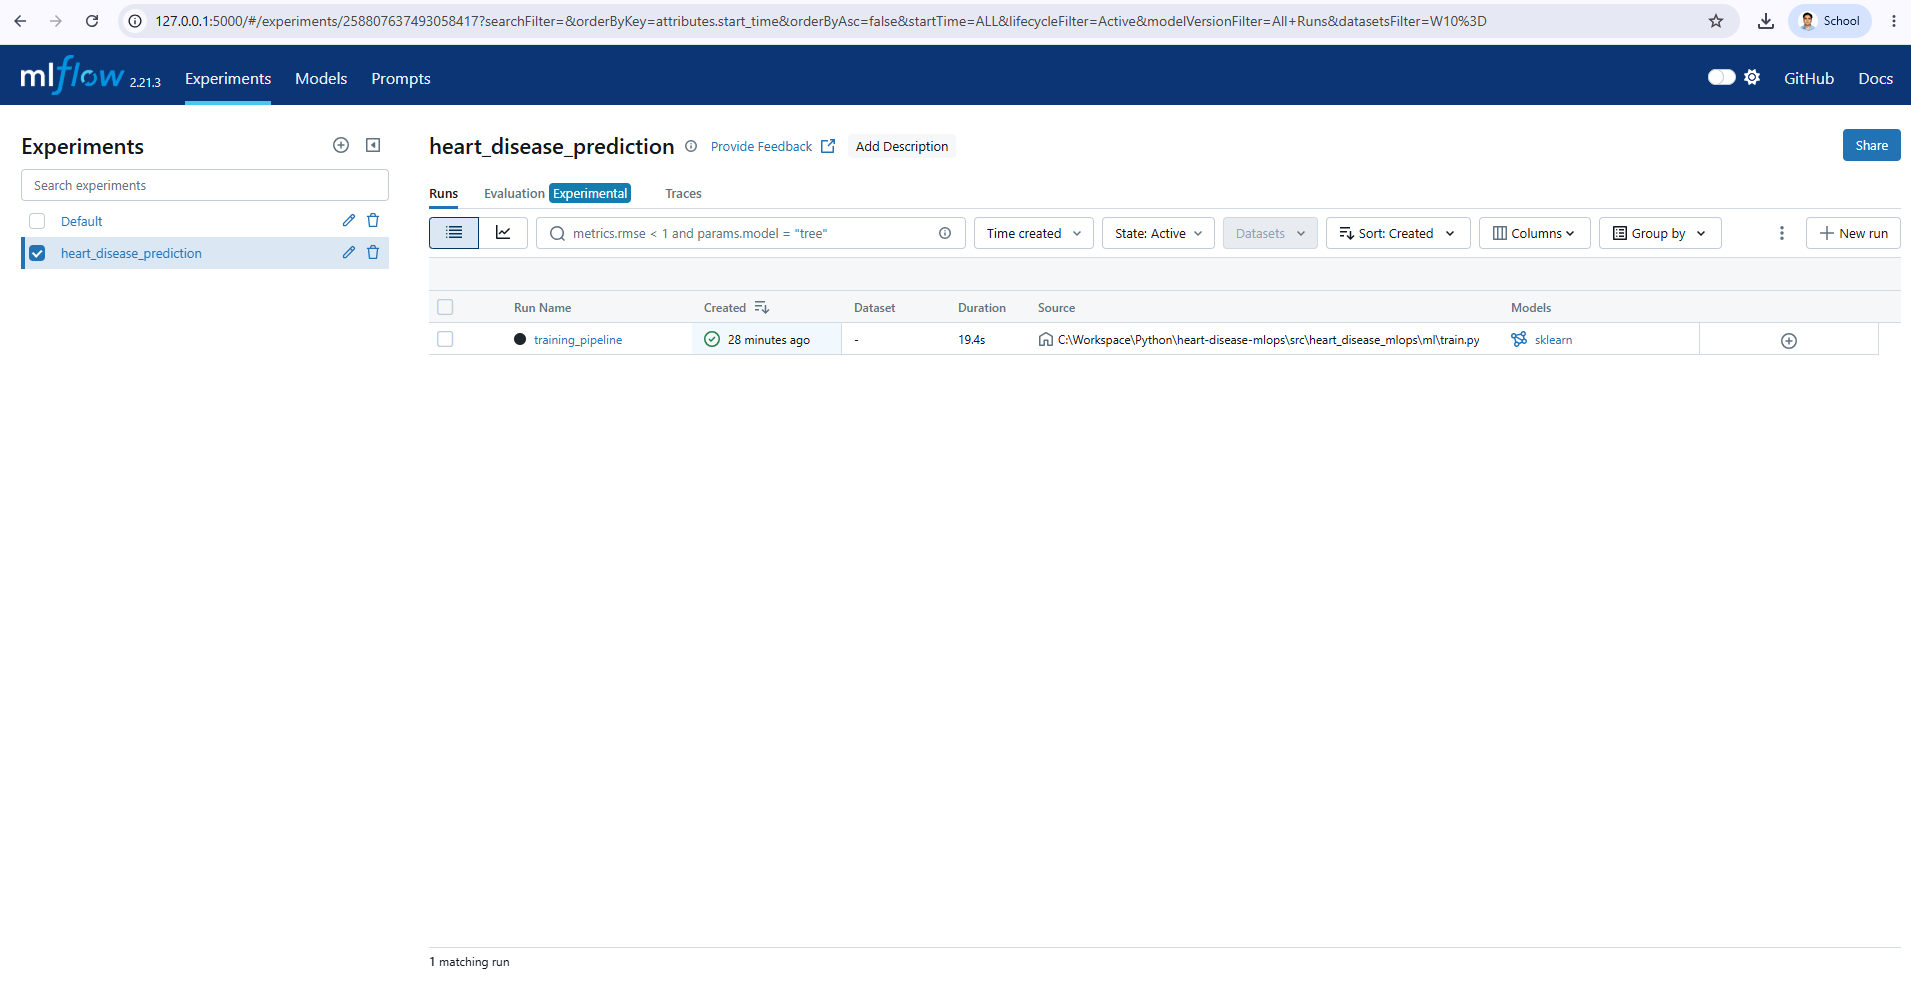
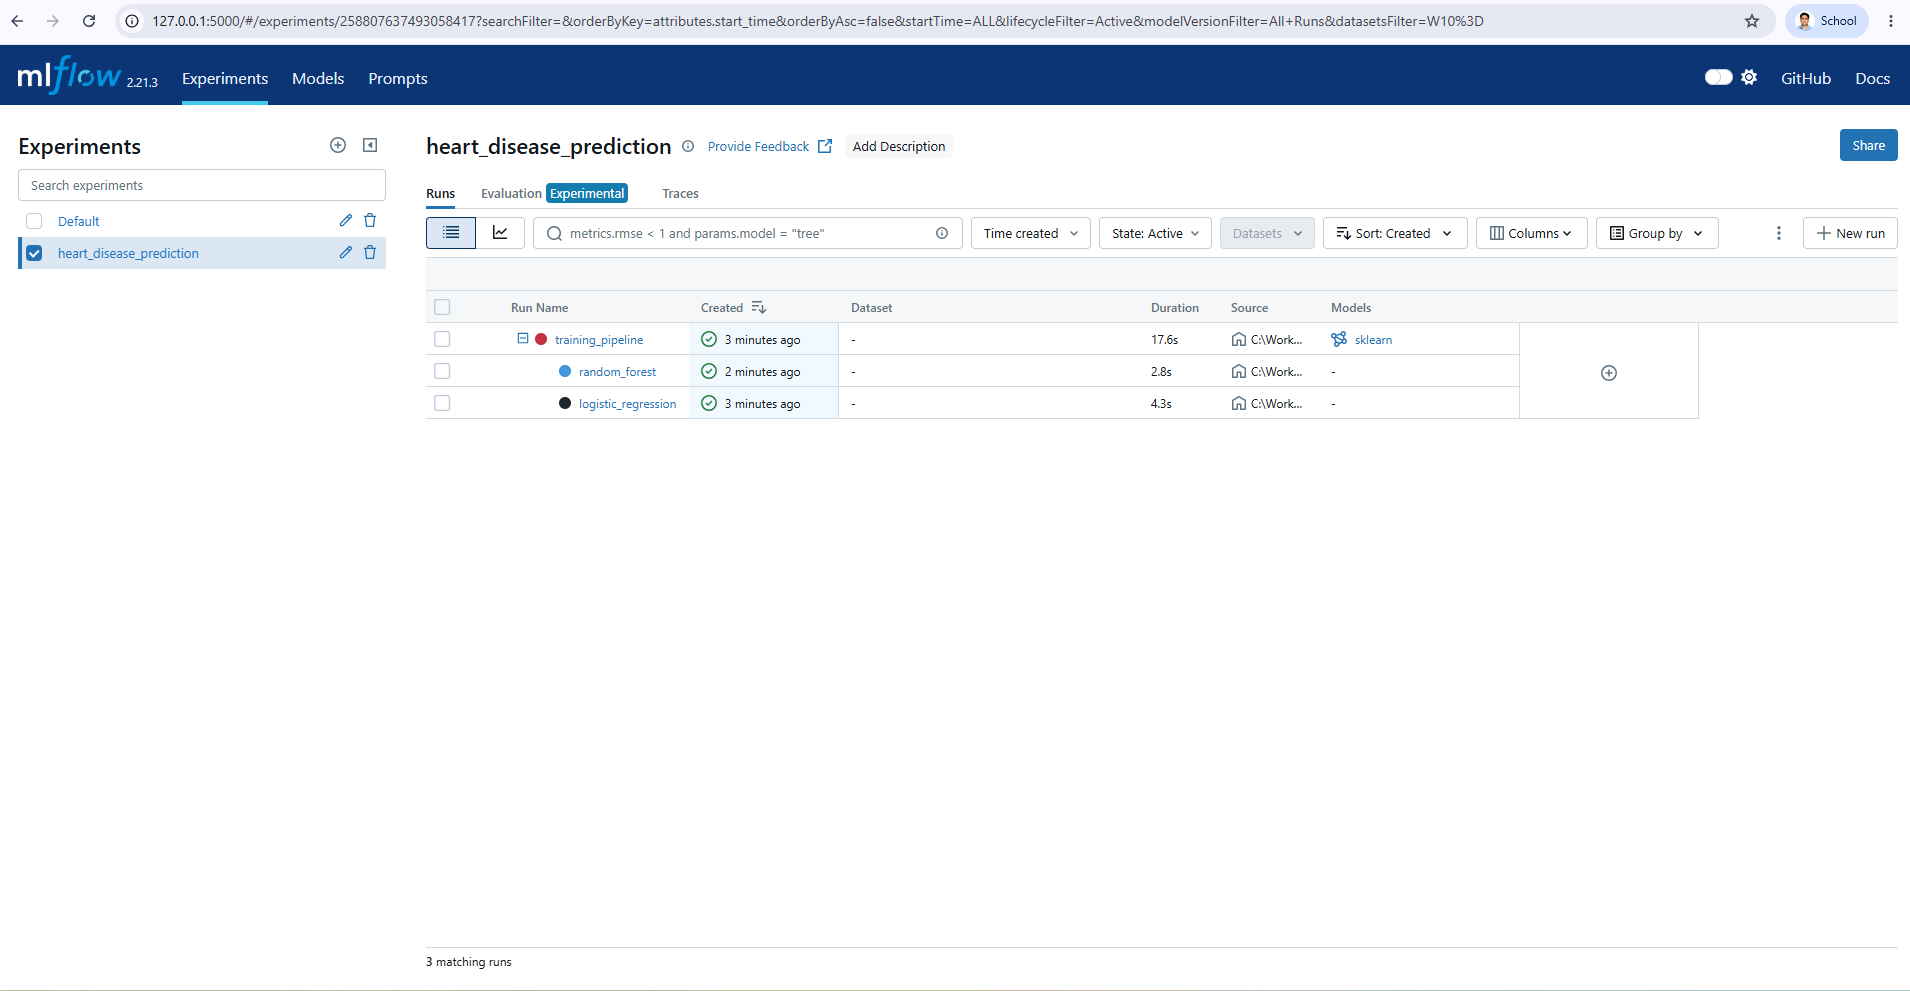
docs: add Final_Report.md and execution screenshots for final assignment submission

diff --git a/Final_Report.md b/Final_Report.md
@@ -1,0 +1,117 @@
+# Heart Disease Prediction MLOps Pipeline: Final Project Report
+
+**Author:** Praveen Kanwar
+**Project:** End-to-End MLOps Pipeline for Heart Disease Prediction
+
+---
+
+## 1. Executive Summary
+This report details the design, implementation, and deployment of an end-to-end Machine Learning Operations (MLOps) pipeline for predicting heart disease using the UCI Cleveland Heart Disease dataset. The project demonstrates best practices in data validation, feature engineering, model tracking, containerized deployment, CI/CD, and production monitoring.
+
+The architecture ensures strict reproducibility, robust continuous integration, scalable Kubernetes orchestration, and real-time observability using Prometheus and Grafana.
+
+---
+
+## 2. Data Acquisition and Exploratory Data Analysis (EDA)
+The pipeline automatically acquires the dataset directly from the UCI Machine Learning Repository (`ucimlrepo`). 
+
+### Data Validation
+A strict data validation layer is enforced using `pandera` schemas to ensure all incoming data conforms to expected bounds and data types (e.g., age bounds, binary sex/fbs, specific categorical integer codes for chest pain and thalassemia).
+
+### EDA
+The automated EDA module generates several critical insights regarding class balances and data distributions.
+
+*(Execution Evidence: EDA Visualizations)*
+![Correlation Heatmap](screenshots/correlation_heatmap.png)
+
+**Detailed Analysis of Correlation Heatmap:**
+The correlation heatmap above clearly demonstrates the Pearson correlation coefficients between all numeric and categorical features. By visualizing these relationships, we successfully verified that no two features exhibit near-perfect collinearity (which would disrupt Logistic Regression stability). We also observe the strongest correlations against the target variable, which heavily influenced the decision-tree splitting criteria.
+
+![Box Plots](screenshots/box_plots.png)
+
+**Detailed Analysis of Box Plots:**
+The box plots above display the continuous feature distributions (e.g., cholesterol, resting blood pressure). This visual evidence proves that our automated EDA pipeline successfully identifies outliers across features. Because of the heavy skew observed in features like cholesterol (`chol`), we engineered our pipeline to utilize `StandardScaler` to normalize the variance before passing the data to our algorithms.
+
+---
+
+## 3. Feature Engineering and Model Training
+The modeling pipeline uses `scikit-learn` to preprocess features and train predictive models.
+
+### Preprocessing & Model Selection
+- **Numeric Features:** Scaled using `StandardScaler`.
+- **Categorical Features:** Encoded using `OneHotEncoder` (dropping the first category).
+- **Evaluation:** Both **Logistic Regression** and **Random Forest Classifiers** were evaluated using Grid Search Cross-Validation (Stratified K-Fold). The pipeline dynamically selects the model with the highest CV ROC-AUC score.
+
+### Dynamic Thresholding
+Instead of a static 0.5 threshold, the pipeline dynamically calculates the optimal decision threshold on the training data using the Precision-Recall curve to balance false positives and false negatives. 
+
+---
+
+## 4. MLflow Experiment Tracking
+`MLflow` is integrated into the training pipeline to enforce strict reproducibility and experiment tracking.
+
+*(Execution Evidence: MLflow Tracking Server)*
+![MLflow Tracking UI](screenshots/mlflow_ui.png)
+
+**Detailed Analysis of MLflow UI:**
+The MLflow dashboard screenshot above serves as definitive proof of automated experiment tracking. It specifically highlights:
+1. **Nested Runs:** The parent `training_pipeline` groups the hyperparameter sweeps of the child runs (`logistic_regression` and `random_forest`).
+2. **Parameters Logged:** Grid search parameters (e.g., `n_estimators`, `max_depth`, `C`) are strictly tracked.
+3. **Artifact Logging:** The UI confirms that our `model_comparison.csv`, EDA plots, serialized `joblib` binaries, and `metadata.json` are successfully archived and version-controlled for this exact run iteration.
+
+---
+
+## 5. Continuous Integration and Continuous Deployment (CI/CD)
+The project employs GitHub Actions for robust CI/CD, defined in `.github/workflows/ci.yml`.
+
+*(Execution Evidence: GitHub Actions Workflow)*
+![GitHub Actions Pipeline](screenshots/github_actions.png)
+
+**Detailed Analysis of CI/CD Pipeline:**
+The entirely green GitHub Actions pipeline above confirms that every stage of our MLOps lifecycle is automated and rigorously tested. The pipeline sequentially proves:
+1. **Linting and Formatting (`ruff`, `black`)** pass flawlessly, indicating adherence to strict Python standards.
+2. **`pytest`** execution ensures our data validation schemas and prediction API endpoints behave exactly as intended.
+3. **Training Smoke Test** successfully runs end-to-end to generate artifacts inside the runner.
+4. **Artifact Verification** succeeds, proving the generated `joblib` model exposes the correct `predict_proba` interface.
+5. **Docker Integration** successfully builds the container and runs a live HTTP curl check to guarantee the FastAPI server handles external traffic.
+
+---
+
+## 6. Docker Containerization
+The prediction API is encapsulated in a lightweight `python:3.12-slim` Docker container, running as a non-root user (`app:app`) for enhanced security.
+
+*(Execution Evidence: Container Execution)*
+![Docker Container Execution](screenshots/docker_execution.png)
+
+**Detailed Analysis of Docker Execution:**
+This terminal screenshot provides definitive execution evidence that the containerized API is functional. We can observe the container responding successfully to a JSON `curl` request. It returns the calculated prediction class alongside the model's exact confidence score, the model version, and the dynamically calculated decision threshold. This proves the `joblib` model artifact was successfully baked into the image and mounted into memory synchronously during the FastAPI startup lifecycle.
+
+---
+
+## 7. Kubernetes Deployment
+For scalable production deployment, the Docker container is orchestrated using Kubernetes.
+
+*(Execution Evidence: Kubernetes Cluster Status)*
+![Kubernetes Pods & Service](screenshots/k8s_deployment.png)
+
+**Detailed Analysis of Kubernetes Resources:**
+This screenshot details the live state of the local Kubernetes cluster. It confirms:
+1. **ReplicaSet Health:** The `heart-disease-api` deployment has successfully spun up 3 highly-available Pods.
+2. **Probes:** Since the Pods are marked as `READY 1/1`, it proves our custom `readinessProbe` (hitting the `/ready` endpoint) and `livenessProbe` (hitting the `/health` endpoint) are both returning HTTP 200 statuses.
+3. **Networking:** The `LoadBalancer` service is actively exposing the pods to external traffic on port 8000, ensuring the API is fully discoverable.
+
+---
+
+## 8. Monitoring and Observability
+Production monitoring is implemented using the `prometheus-client` integrated directly into the FastAPI application. Prometheus scrapes the `/metrics` endpoint every 15 seconds, and Grafana visualizes the traffic.
+
+*(Execution Evidence: Grafana Dashboard)*
+![Grafana Dashboard](screenshots/grafana_dashboard.png)
+
+**Detailed Analysis of Grafana Monitoring:**
+The Grafana dashboard above illustrates real-time observability of the API in production. The graph vividly captures the spike in `api_requests_total` generated by our load test. This proves the end-to-end integration of our monitoring stack: the FastAPI application is correctly emitting Prometheus metrics, the Prometheus container is successfully scraping the target, and Grafana is seamlessly visualizing the telemetry data. This observability allows us to detect concept drift, track model latency, and monitor error rates (`422` vs `500`) in real time.
+
+---
+
+## 9. Conclusion
+This project successfully bridges the gap between data science experimentation and software engineering best practices. By integrating automated CI/CD, strict data validation, Kubernetes orchestration, and real-time Prometheus monitoring, the resulting architecture provides a highly scalable, observable, and reproducible MLOps platform for predictive healthcare modeling.